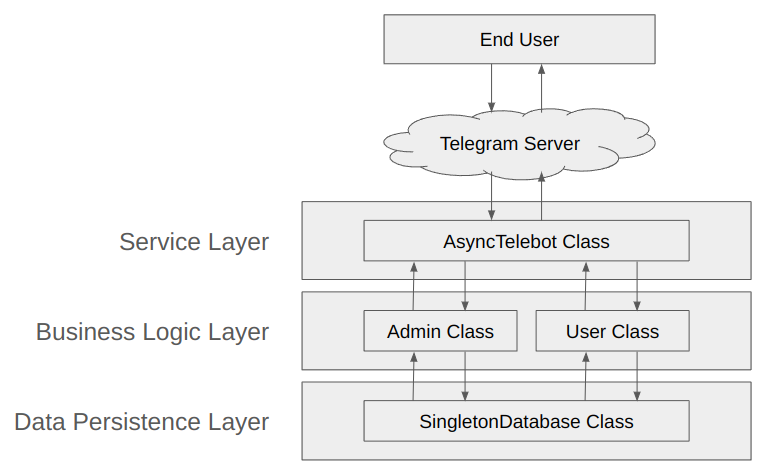
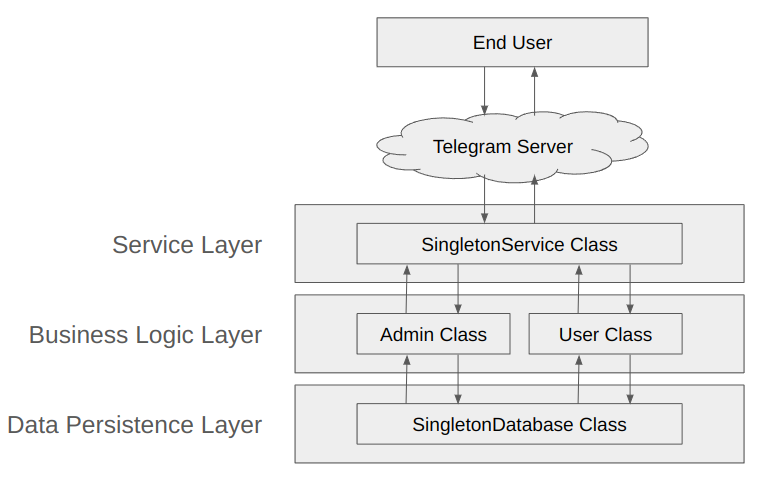
updated description of software architecture

diff --git a/README.md b/README.md
@@ -56,7 +56,7 @@ The bot only supports commands in Direct Messaging (DM) mode.
 ## Software Architecure
 ![hello world](architecture.png)
 
-The Service Layer is responsible for handling interactions with the Telegram API Server.  
+The Service Layer is responsible for handling interactions with the Telegram API Server. The SingletonService class interacts with the Telegram API Server via the AsyncTelebot class.  
 
 The Busines Logic Layer consists of Admin Class and User class that provides authentication and authorisation for specific commands. These 2 classes also execute the logic of these commands.  
 
